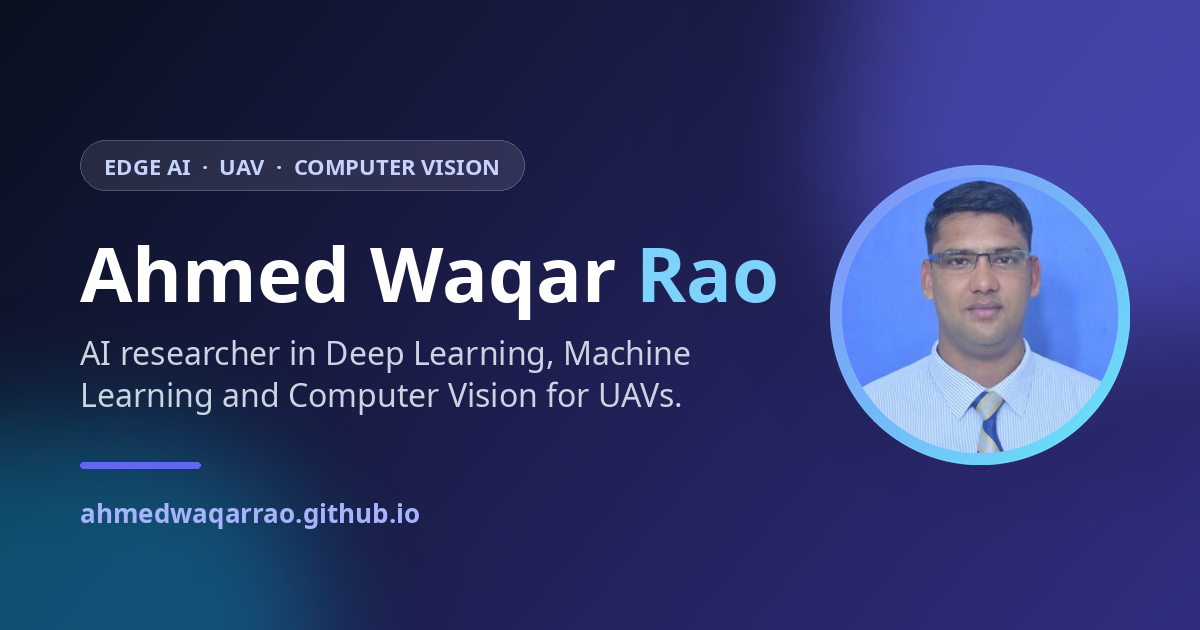
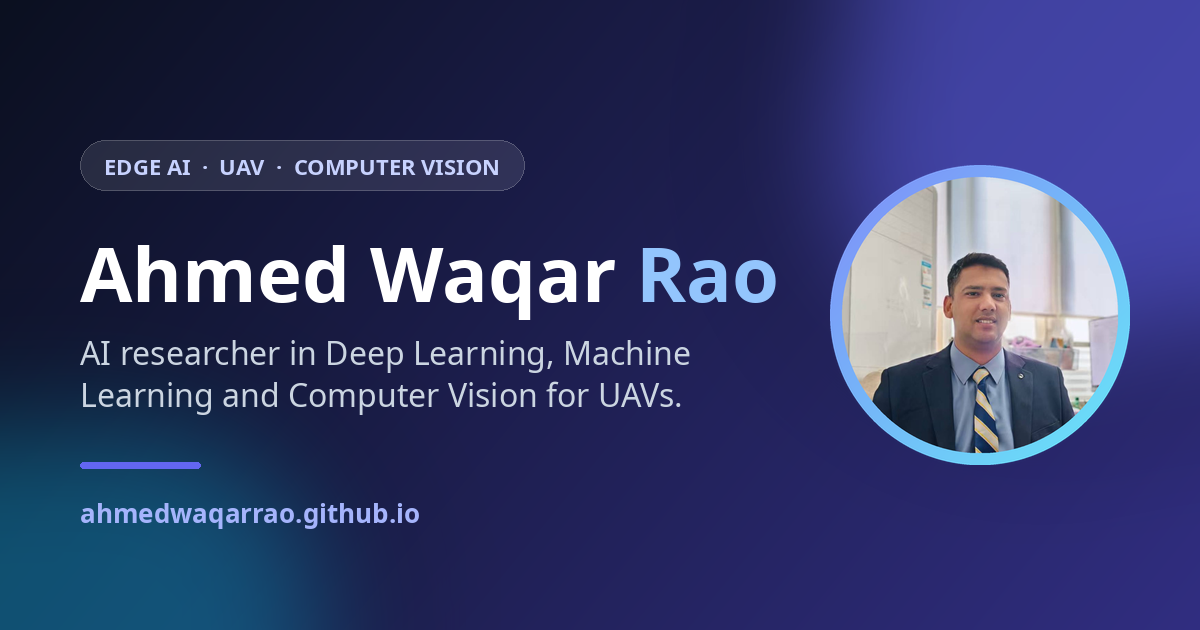
Replace profile photo with the new portrait; fix 320px tab overflow
- New profile photo (head-and-shoulders crop) replaces ahmadwaqar.jpg in
  the hero and sidebar
- Regenerate favicon, app icons and the 1200x630 share image from it
- Workshops tabs: tighter padding on very small phones (fixes horizontal
  overflow at 320px)

Changed region(s): [[0.6783, 0.2714, 0.9558, 0.7238]]

diff --git a/ahmadwaqar/src/pages/workshops.tsx b/ahmadwaqar/src/pages/workshops.tsx
@@ -123,7 +123,7 @@ const WorkshopsConferences: FC = () => {
         <div className="flex justify-center mb-10">
           <button
             onClick={() => setTab("conferences")}
-            className={`px-6 py-2 rounded-l-full font-semibold ${
+            className={`px-4 sm:px-6 py-2 rounded-l-full font-semibold ${
               tab === "conferences"
                 ? "bg-indigo-600 text-white"
                 : "bg-indigo-100 text-indigo-700 hover:bg-indigo-200"
@@ -133,7 +133,7 @@ const WorkshopsConferences: FC = () => {
           </button>
           <button
             onClick={() => setTab("workshops")}
-            className={`px-6 py-2 rounded-r-full font-semibold ${
+            className={`px-4 sm:px-6 py-2 rounded-r-full font-semibold ${
               tab === "workshops"
                 ? "bg-indigo-600 text-white"
                 : "bg-indigo-100 text-indigo-700 hover:bg-indigo-200"
